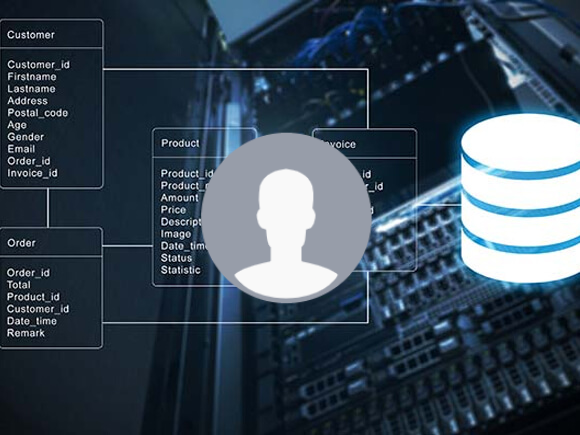
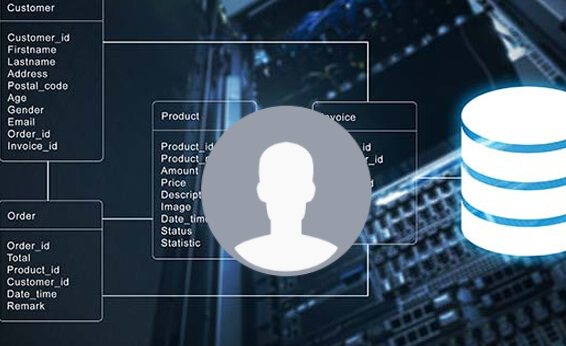
modified:   imag/Thunb_projeto2.png 	modified:   imag/Thunb_projeto3.png 	modified:   projetos.css 	modified:   projetos.html 	modified:   style.css

diff --git a/projetos.html b/projetos.html
@@ -58,7 +58,16 @@
     
                 <div class = "post">
                     <h1 class = "anos">2023</h1>
-                    <p>Loading...</p>
+                    <p>Criando um aplicação desktop de controle de
+                    <b class = "text_cor">Finanças Pessoais</b> em <b class = "text_cor">
+                        Java,</b> com <b class = "text_cor">Java Swing</b> e <b class="text_cor">PostgreSQL.</b>
+                    </p>
+                    <br>
+                    <a href="./api-financas.html">
+                        <img src="imag/Thunb_projeto3.png" class ="thumbs">
+                    </a>
+                    <br>
+                    Clique para ver
                 </div>
                 
                 <div class = "post">

diff --git a/projetos.css b/projetos.css
@@ -60,6 +60,10 @@ body{
     width: 100px;
     align-items: center;
 }
+.logos-2{
+    padding-top: 0%;
+    width: 50px;
+}
 .logos_maior{
     padding-top: 0%;
     width: 50px;

diff --git a/style.css b/style.css
@@ -126,7 +126,7 @@ nav{
 }
 img{
     padding-top: 15%;
-    width: 75%;
+    width: 70%;
 }
 
 /*SOBRE MIN*/
